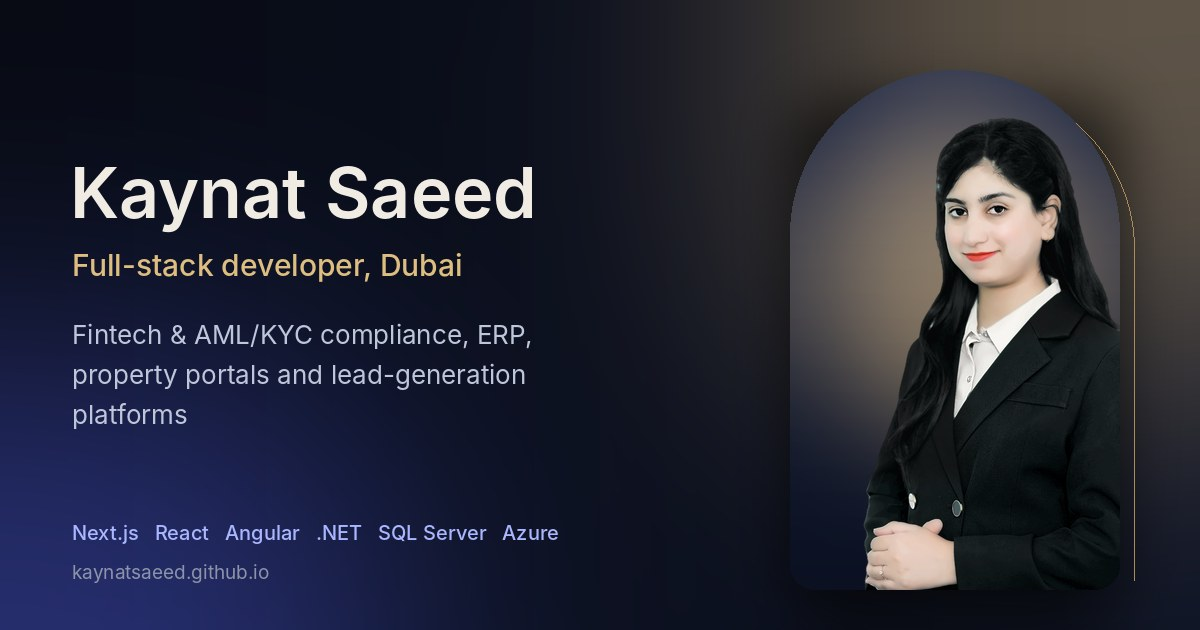
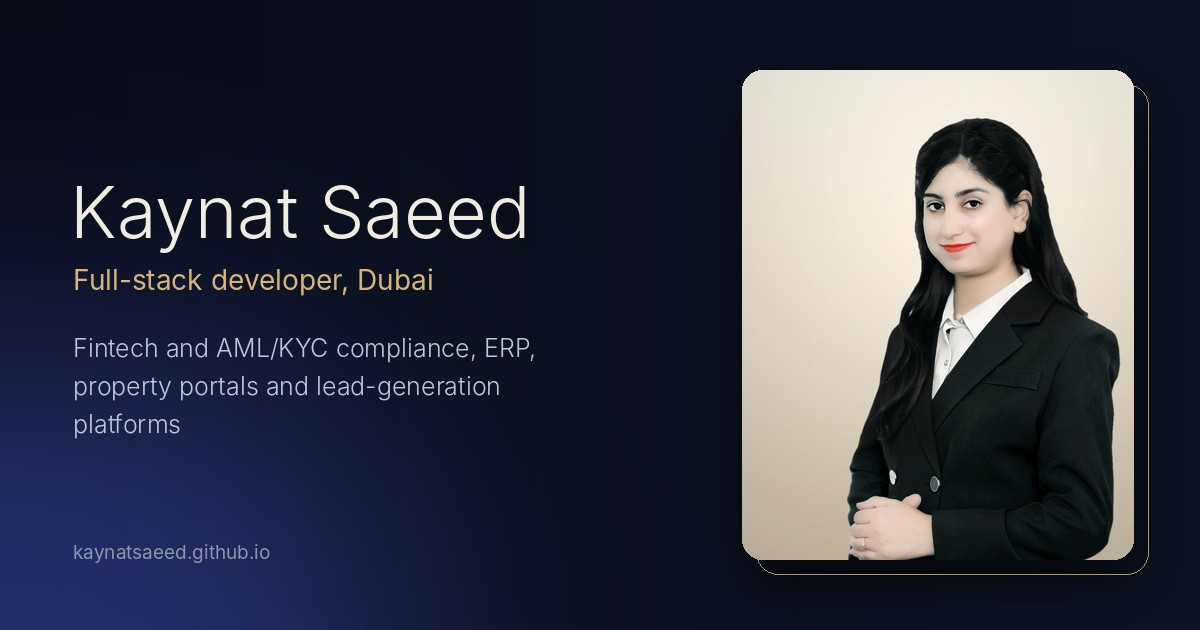
Minimal typography, glass buttons, studio portrait card

diff --git a/index.html b/index.html
@@ -25,9 +25,8 @@
     setTimeout(function () { if (!window.__ks) { d.classList.remove('js'); d.classList.add('no-js'); } }, 3500);
   })();
 </script>
-<link rel="preconnect" href="https://fonts.googleapis.com">
-<link rel="preconnect" href="https://fonts.gstatic.com" crossorigin>
-<link href="https://fonts.googleapis.com/css2?family=Geist:wght@300..700&family=Instrument+Serif:ital@0;1&display=swap" rel="stylesheet">
+<link rel="preconnect" href="https://api.fontshare.com" crossorigin>
+<link href="https://api.fontshare.com/v2/css?f[]=switzer@300,400,500,600&display=swap" rel="stylesheet">
 <script type="application/ld+json">
 {
   "@context": "https://schema.org",
@@ -55,8 +54,8 @@
   --gold: #D4B47A;
   --gold-hi: #F1DDB0;
   --gold-grad: linear-gradient(135deg, #F3E1B6 0%, #D4B47A 45%, #A8864F 100%);
-  --serif: "Instrument Serif", "Iowan Old Style", "Times New Roman", serif;
-  --sans: "Geist", "Segoe UI", system-ui, -apple-system, sans-serif;
+  --serif: "Switzer", "Helvetica Neue", Helvetica, Arial, sans-serif;
+  --sans: "Switzer", "Helvetica Neue", Helvetica, Arial, sans-serif;
   --ease: cubic-bezier(0.16, 1, 0.3, 1);
   --ease-in-out: cubic-bezier(0.77, 0, 0.18, 1);
   --wrap: 1240px;
@@ -74,7 +73,7 @@ body {
   color: var(--ink);
   font-family: var(--sans);
   font-size: 1.0625rem;
-  font-weight: 350;
+  font-weight: 400;
   line-height: 1.65;
   -webkit-font-smoothing: antialiased;
   -moz-osx-font-smoothing: grayscale;
@@ -83,6 +82,7 @@ body {
 img { display: block; max-width: 100%; height: auto; }
 a { color: inherit; }
 h1, h2, h3, p, ul, ol, dl, dd, figure { margin: 0; padding: 0; }
+h1, h2, h3 { letter-spacing: -0.03em; }
 ul, ol { list-style: none; }
 button { font: inherit; color: inherit; }
 ::selection { background: var(--gold); color: var(--bg); }
@@ -104,7 +104,7 @@ button { font: inherit; color: inherit; }
 .js.intro-seen .loader { display: none; }
 .loader.is-done { transform: translateY(-100%); }
 .loader-inner { text-align: center; }
-.loader-name { display: block; overflow: hidden; font-family: var(--serif); font-size: clamp(2.5rem, 7vw, 5rem); line-height: 1.12; }
+.loader-name { display: block; overflow: hidden; font-family: var(--serif); font-weight: 300; font-size: clamp(2.25rem, 6vw, 4.25rem); line-height: 1.15; letter-spacing: -0.04em; }
 .loader-name span { display: inline-block; transform: translateY(110%); animation: rise 1s var(--ease) .1s forwards; }
 .loader-line { display: block; height: 1px; width: min(260px, 60vw); margin: 18px auto 14px; background: var(--gold-grad); transform: scaleX(0); animation: grow 1.1s var(--ease) .35s forwards; }
 .loader-role { display: block; color: var(--muted); font-size: .9375rem; letter-spacing: .02em; opacity: 0; animation: fade .8s ease .6s forwards; }
@@ -150,7 +150,7 @@ button { font: inherit; color: inherit; }
 }
 .nav.is-hidden { transform: translate(-50%, -150%); }
 .nav.is-solid { background: rgba(10, 15, 27, .82); border-color: var(--line-2); }
-.nav-logo { font-family: var(--serif); font-size: 1.625rem; line-height: 1; text-decoration: none; letter-spacing: .01em; }
+.nav-logo { font-weight: 500; font-size: 1rem; line-height: 1; text-decoration: none; letter-spacing: -0.01em; }
 .nav-logo span { color: var(--gold); }
 .nav-links { display: flex; gap: 2px; }
 .nav-links a { display: block; padding: 10px 16px; border-radius: 999px; color: var(--muted); text-decoration: none; font-size: .9375rem; transition: color .3s ease, background-color .3s ease; }
@@ -168,15 +168,25 @@ button { font: inherit; color: inherit; }
 }
 .btn svg { width: 17px; height: 17px; flex: none; transition: transform .5s var(--ease); }
 .btn:hover svg { transform: translateX(3px); }
-.btn-gold { background: var(--gold-grad); color: #0A0D15; }
-.btn-gold::after {
-  content: ""; position: absolute; inset: 0; z-index: -1;
-  background: linear-gradient(110deg, transparent 30%, rgba(255, 255, 255, .55) 50%, transparent 70%);
-  transform: translateX(-120%); transition: transform .9s var(--ease);
+.btn-gold, .btn-ghost {
+  color: var(--ink);
+  -webkit-backdrop-filter: blur(18px) saturate(160%);
+  backdrop-filter: blur(18px) saturate(160%);
+  box-shadow: inset 0 1px 0 rgba(255, 255, 255, .22), inset 0 -1px 0 rgba(255, 255, 255, .04), 0 12px 32px -14px rgba(0, 0, 0, .7);
 }
-.btn-gold:hover::after { transform: translateX(120%); }
-.btn-ghost { border-color: var(--line-2); color: var(--ink); background: rgba(237, 234, 227, .02); }
-.btn-ghost:hover { border-color: rgba(212, 180, 122, .6); background: rgba(212, 180, 122, .07); }
+/* primary: glass with a faint champagne tint */
+.btn-gold { background: linear-gradient(135deg, rgba(241, 221, 176, .2), rgba(212, 180, 122, .06) 60%, rgba(255, 255, 255, .04)); border-color: rgba(241, 221, 176, .34); color: #F6EEDC; }
+.btn-gold:hover { background: linear-gradient(135deg, rgba(241, 221, 176, .28), rgba(212, 180, 122, .1) 60%, rgba(255, 255, 255, .06)); border-color: rgba(241, 221, 176, .55); }
+/* secondary: clear glass */
+.btn-ghost { background: linear-gradient(135deg, rgba(255, 255, 255, .1), rgba(255, 255, 255, .025)); border-color: rgba(255, 255, 255, .14); }
+.btn-ghost:hover { background: linear-gradient(135deg, rgba(255, 255, 255, .14), rgba(255, 255, 255, .04)); border-color: rgba(255, 255, 255, .28); }
+/* light sheen that passes across on hover */
+.btn-gold::after, .btn-ghost::after {
+  content: ""; position: absolute; inset: 0; z-index: -1; pointer-events: none;
+  background: linear-gradient(110deg, transparent 35%, rgba(255, 255, 255, .16) 50%, transparent 65%);
+  transform: translateX(-120%); transition: transform 1s var(--ease);
+}
+.btn-gold:hover::after, .btn-ghost:hover::after { transform: translateX(120%); }
 .btn-sm { min-height: 42px; padding: 10px 20px; font-size: .9063rem; }
 
 /* ---------- Hero ---------- */
@@ -191,20 +201,20 @@ button { font: inherit; color: inherit; }
 .hero::after { content: ""; position: absolute; left: 0; right: 0; bottom: 0; height: 26%; background: linear-gradient(to bottom, transparent, var(--bg)); pointer-events: none; }
 .hero-inner { position: relative; z-index: 1; display: flex; flex-direction: column; justify-content: center; gap: clamp(18px, 3vh, 36px); padding-top: clamp(104px, 14vh, 140px); padding-bottom: clamp(36px, 6vh, 64px); }
 .hero-top { display: flex; flex-wrap: wrap; align-items: center; justify-content: space-between; gap: 12px 24px; color: var(--muted); font-size: .9375rem; }
-.status { display: inline-flex; align-items: center; gap: 12px; padding: 8px 16px 8px 12px; border-radius: 999px; }
+.status { color: var(--muted); }
 .pulse { position: relative; width: 8px; height: 8px; border-radius: 50%; background: #5EE29A; flex: none; }
 .pulse::after { content: ""; position: absolute; inset: -4px; border-radius: 50%; border: 1px solid #5EE29A; animation: ping 2.2s var(--ease) infinite; }
 @keyframes ping { from { transform: scale(.6); opacity: .9; } to { transform: scale(2.2); opacity: 0; } }
 .hero-name {
-  font-family: var(--serif); font-weight: 400; color: var(--ink);
-  font-size: clamp(4rem, min(12vw, 21vh), 12rem);
-  line-height: .92; letter-spacing: -0.025em; margin-left: -0.04em;
+  font-family: var(--serif); font-weight: 300; color: var(--ink);
+  font-size: clamp(3.25rem, min(9.6vw, 17.5vh), 9.5rem);
+  line-height: .95; letter-spacing: -0.05em; margin-left: -0.05em;
 }
 .hero-name .word { display: inline-block; white-space: nowrap; }
-.hero-name .ch { display: inline-block; padding-bottom: .2em; margin-bottom: -.2em; background: linear-gradient(180deg, #F7F3EA 30%, #C9BB9B 82%); -webkit-background-clip: text; background-clip: text; color: transparent; }
+.hero-name .ch { display: inline-block; }
 .hero-grid { display: grid; grid-template-columns: minmax(0, 1fr) minmax(0, 1.08fr); gap: clamp(28px, 5vw, 80px); align-items: end; }
-.hero-statement { font-family: var(--serif); font-size: clamp(1.75rem, 2.7vw, 2.5rem); line-height: 1.15; margin-bottom: 16px; }
-.rotator { position: relative; display: grid; color: var(--gold-hi); font-style: italic; overflow: hidden; padding-bottom: .12em; }
+.hero-statement { font-family: var(--serif); font-weight: 300; font-size: clamp(1.4rem, 2.1vw, 1.95rem); line-height: 1.25; letter-spacing: -0.02em; margin-bottom: 16px; }
+.rotator { position: relative; display: grid; color: var(--gold); overflow: hidden; padding-bottom: .12em; }
 .rotator span { grid-area: 1 / 1; transform: translateY(105%); opacity: 0; transition: transform .9s var(--ease), opacity .6s ease; }
 .rotator span.is-active { transform: none; opacity: 1; }
 .rotator span.is-leaving { transform: translateY(-105%); opacity: 0; }
@@ -247,15 +257,14 @@ button { font: inherit; color: inherit; }
 .marquee { position: relative; padding-block: clamp(28px, 4vw, 44px); border-block: 1px solid var(--line); overflow: hidden; -webkit-mask-image: linear-gradient(90deg, transparent, #000 10%, #000 90%, transparent); mask-image: linear-gradient(90deg, transparent, #000 10%, #000 90%, transparent); }
 .marquee-track { display: flex; width: max-content; will-change: transform; }
 .marquee-group { display: flex; align-items: center; flex: none; }
-.marquee-group span { font-family: var(--serif); font-size: clamp(2.25rem, 5vw, 4.25rem); line-height: 1.1; padding-inline: clamp(18px, 2.4vw, 34px); white-space: nowrap; }
-.marquee-group span:nth-child(4n+3) { color: transparent; -webkit-text-stroke: 1px rgba(237, 234, 227, .5); }
-.marquee-group b { width: 9px; height: 9px; flex: none; background: var(--gold); transform: rotate(45deg); }
+.marquee-group span { font-family: var(--serif); font-weight: 300; font-size: clamp(1.75rem, 3.6vw, 3rem); line-height: 1.15; letter-spacing: -0.03em; padding-inline: clamp(18px, 2.4vw, 34px); white-space: nowrap; color: var(--muted); }
+.marquee-group b { width: 5px; height: 5px; flex: none; border-radius: 50%; background: var(--gold); }
 
 /* ---------- Sections ---------- */
 .section { position: relative; padding-block: var(--section); }
 .section.flush { padding-top: 0; }
 .head { display: grid; grid-template-columns: minmax(0, 1.15fr) minmax(0, 1fr); gap: 24px 64px; align-items: end; margin-bottom: clamp(48px, 7vw, 96px); }
-.h2 { font-family: var(--serif); font-weight: 400; font-size: clamp(3rem, 7.4vw, 6.75rem); line-height: .95; letter-spacing: -0.02em; }
+.h2 { font-family: var(--serif); font-weight: 300; font-size: clamp(2.6rem, 5.6vw, 5rem); line-height: 1; letter-spacing: -0.045em; }
 .head p { color: var(--muted); max-width: 52ch; }
 
 /* reveal system */
@@ -268,15 +277,15 @@ button { font: inherit; color: inherit; }
 }
 
 /* ---------- Intro ---------- */
-.statement { font-family: var(--serif); font-size: clamp(2rem, 4.4vw, 3.9rem); line-height: 1.14; letter-spacing: -0.01em; max-width: 23ch; }
-.statement em { color: var(--gold-hi); }
+.statement { font-family: var(--serif); font-weight: 300; font-size: clamp(1.75rem, 3.3vw, 3rem); line-height: 1.22; letter-spacing: -0.03em; max-width: 26ch; }
+.statement em { font-style: normal; color: var(--gold); }
 .js .statement .sw { opacity: .16; transition: opacity .5s ease; }
 .js .statement .sw.on { opacity: 1; }
 .stats { display: grid; grid-template-columns: repeat(3, minmax(0, 1fr)); margin-top: clamp(56px, 8vw, 104px); border-top: 1px solid var(--line); }
 .stats div { display: flex; flex-direction: column; padding: 28px 28px 0 0; }
 .stats div + div { padding-left: 28px; border-left: 1px solid var(--line); }
-.stats dd { order: -1; font-family: var(--serif); font-size: clamp(3.5rem, 7vw, 6rem); line-height: 1; }
-.stats dd sup { font-size: .38em; color: var(--gold); margin-left: 6px; vertical-align: 1em; }
+.stats dd { order: -1; font-family: var(--serif); font-weight: 300; font-size: clamp(2.75rem, 5vw, 4.25rem); line-height: 1; letter-spacing: -0.04em; }
+.stats dd sup { font-size: .32em; color: var(--muted); margin-left: 6px; vertical-align: 1.2em; letter-spacing: 0; }
 .stats dt { color: var(--muted); font-size: .9688rem; margin-top: 10px; max-width: 26ch; }
 
 /* ---------- Expertise ---------- */
@@ -288,7 +297,7 @@ button { font: inherit; color: inherit; }
 }
 .spot-icon { width: 52px; height: 52px; border-radius: 14px; display: grid; place-items: center; margin-bottom: clamp(36px, 5vw, 64px); border: 1px solid rgba(212, 180, 122, .28); background: rgba(212, 180, 122, .06); color: var(--gold); }
 .spot-icon svg { width: 24px; height: 24px; }
-.spot h3 { font-family: var(--serif); font-weight: 400; font-size: clamp(1.875rem, 2.8vw, 2.5rem); line-height: 1.05; margin-bottom: 14px; }
+.spot h3 { font-family: var(--serif); font-weight: 300; font-size: clamp(1.875rem, 2.8vw, 2.5rem); line-height: 1.1; letter-spacing: -0.03em; margin-bottom: 14px; }
 .spot p { color: var(--muted); max-width: 44ch; }
 .spot .where { margin-top: 22px; padding-top: 18px; border-top: 1px solid var(--line); color: var(--gold); font-size: .875rem; font-weight: 500; }
 
@@ -309,14 +318,14 @@ button { font: inherit; color: inherit; }
 }
 .card-client { display: flex; align-items: center; gap: 10px; color: var(--gold); font-size: .875rem; font-weight: 500; margin-bottom: 14px; }
 .card-client::before { content: ""; width: 22px; height: 1px; background: var(--gold); flex: none; }
-.card h3 { font-family: var(--serif); font-weight: 400; font-size: clamp(2rem, 3.1vw, 2.875rem); line-height: 1.02; letter-spacing: -0.01em; margin-bottom: 14px; }
+.card h3 { font-family: var(--serif); font-weight: 300; font-size: clamp(1.75rem, 2.5vw, 2.4rem); line-height: 1.08; letter-spacing: -0.035em; margin-bottom: 14px; }
 .card-sum { color: var(--muted); margin-bottom: 18px; font-size: 1rem; }
 .ticks { display: grid; gap: 9px; margin-bottom: 20px; }
 .ticks li { position: relative; padding-left: 26px; font-size: .9688rem; line-height: 1.5; color: var(--soft); }
-.ticks li::before { content: ""; position: absolute; left: 0; top: .3em; width: 14px; height: 14px; border-radius: 50%; border: 1px solid rgba(212, 180, 122, .5); background: radial-gradient(circle, var(--gold) 0 2.5px, transparent 3px); }
+.ticks li::before { content: ""; position: absolute; left: 0; top: .78em; width: 12px; height: 1px; background: var(--gold); }
 .chips { display: flex; flex-wrap: wrap; gap: 7px; margin-bottom: 24px; }
 .chips li { padding: 5px 12px; border-radius: 999px; border: 1px solid var(--line-2); color: var(--muted); font-size: .8125rem; line-height: 1.4; }
-.card-note { color: var(--dim); font-size: .9063rem; font-style: italic; }
+.card-note { color: var(--dim); font-size: .9063rem; }
 .card-media { position: relative; min-width: 0; }
 .card-main { position: relative; display: block; width: 100%; padding: 0; border: 0; background: none; border-radius: 12px; text-align: left; cursor: zoom-in; }
 .card-main .phone { position: absolute; right: -14px; bottom: -22px; width: 20%; }
@@ -333,7 +342,7 @@ button { font: inherit; color: inherit; }
 
 /* ---------- Behind the login ---------- */
 .private { display: grid; grid-template-columns: minmax(0, 1fr) minmax(0, 1.35fr); gap: clamp(32px, 6vw, 96px); align-items: start; margin-top: clamp(80px, 10vw, 140px); }
-.private h3 { font-family: var(--serif); font-weight: 400; font-size: clamp(2.25rem, 4.2vw, 3.75rem); line-height: 1; margin-bottom: 18px; }
+.private h3 { font-family: var(--serif); font-weight: 300; font-size: clamp(2.25rem, 4.2vw, 3.75rem); line-height: 1; margin-bottom: 18px; }
 .private > div > p { color: var(--muted); max-width: 40ch; }
 .rows { padding: 6px clamp(20px, 2.6vw, 32px); border-radius: 24px; }
 .rows li:last-child { border-bottom: 0; }
@@ -347,7 +356,7 @@ button { font: inherit; color: inherit; }
 .designs { display: grid; grid-template-columns: repeat(3, minmax(0, 1fr)); gap: clamp(18px, 2.4vw, 28px); }
 .design-img { display: block; width: 100%; padding: 0; border: 0; background: none; border-radius: 22px; overflow: hidden; cursor: zoom-in; }
 .design-img img { width: 100%; aspect-ratio: 4 / 3.3; object-fit: cover; }
-.design h3 { font-family: var(--serif); font-weight: 400; font-size: 1.875rem; line-height: 1.1; margin: 22px 0 8px; }
+.design h3 { font-family: var(--serif); font-weight: 300; font-size: 1.875rem; line-height: 1.1; margin: 22px 0 8px; }
 .design p { color: var(--muted); font-size: 1rem; }
 .more { margin-top: clamp(40px, 5vw, 64px); display: flex; justify-content: center; }
 
@@ -362,7 +371,7 @@ button { font: inherit; color: inherit; }
 .role::after { content: ""; position: absolute; left: 5px; top: 13px; width: 5px; height: 5px; border-radius: 50%; background: var(--gold); }
 .role-when { color: var(--gold); font-size: .9375rem; font-weight: 500; padding-top: 2px; font-variant-numeric: tabular-nums; }
 .role-when small { display: block; color: var(--dim); font-weight: 400; font-size: .875rem; margin-top: 4px; }
-.role h3 { font-family: var(--serif); font-weight: 400; font-size: clamp(1.875rem, 3vw, 2.5rem); line-height: 1.05; margin-bottom: 6px; }
+.role h3 { font-family: var(--serif); font-weight: 300; font-size: clamp(1.875rem, 3vw, 2.5rem); line-height: 1.05; margin-bottom: 6px; }
 .role-org { color: var(--muted); margin-bottom: 18px; }
 .role .ticks { margin-bottom: 0; max-width: 70ch; }
 
@@ -370,22 +379,22 @@ button { font: inherit; color: inherit; }
 .skill-grid { display: grid; grid-template-columns: repeat(3, minmax(0, 1fr)); gap: 18px; }
 .skill { padding: 28px; border-radius: 22px; }
 .skill:hover, .spot:hover, .cred:hover { border-color: rgba(212, 180, 122, .32); }
-.skill h3 { font-family: var(--serif); font-weight: 400; font-size: 1.75rem; line-height: 1.1; margin-bottom: 18px; }
+.skill h3 { font-family: var(--serif); font-weight: 300; font-size: 1.75rem; line-height: 1.1; margin-bottom: 18px; }
 .tags { display: flex; flex-wrap: wrap; gap: 8px; }
 .tags li { padding: 6px 13px; border-radius: 999px; border: 1px solid var(--line-2); font-size: .875rem; line-height: 1.4; color: var(--soft); transition: border-color .3s ease, color .3s ease; }
 .tags li:hover { border-color: var(--gold); color: var(--gold-hi); }
 .creds { display: grid; grid-template-columns: repeat(2, minmax(0, 1fr)); gap: 18px; margin-top: 18px; }
 .cred { display: flex; gap: 20px; align-items: center; padding: 24px 28px; border-radius: 22px; }
 .cred svg { width: 30px; height: 30px; color: var(--gold); flex: none; }
-.cred h3 { font-family: var(--serif); font-weight: 400; font-size: 1.5rem; line-height: 1.15; }
+.cred h3 { font-family: var(--serif); font-weight: 300; font-size: 1.5rem; line-height: 1.15; }
 .cred p { color: var(--muted); font-size: .9375rem; }
 
 /* ---------- Contact ---------- */
 .contact { overflow: hidden; }
 .contact .aurora i:nth-child(1) { top: auto; bottom: -30vw; right: -20vw; }
 .contact-inner { position: relative; z-index: 1; }
-.contact-title { font-family: var(--serif); font-weight: 400; font-size: clamp(3.5rem, 11vw, 10.5rem); line-height: .92; letter-spacing: -0.025em; margin-bottom: clamp(36px, 5vw, 56px); }
-.contact-grid { display: grid; grid-template-columns: minmax(0, 1fr) auto; gap: 40px 64px; align-items: center; padding-top: clamp(32px, 4vw, 48px); border-top: 1px solid var(--line); }
+.contact-title { font-family: var(--serif); font-weight: 300; font-size: clamp(2.75rem, 7.6vw, 7rem); line-height: 1; letter-spacing: -0.05em; margin-bottom: clamp(36px, 5vw, 56px); }
+.contact-grid { display: grid; grid-template-columns: minmax(0, 1fr); gap: 40px 64px; align-items: center; padding-top: clamp(32px, 4vw, 48px); border-top: 1px solid var(--line); }
 .contact-lede { color: var(--muted); max-width: 46ch; font-size: 1.125rem; margin-bottom: 26px; }
 .reach { display: grid; grid-template-columns: repeat(2, minmax(0, 1fr)); gap: 0 40px; }
 .reach li { padding: 16px 0; border-bottom: 1px solid var(--line); }
@@ -407,6 +416,7 @@ button { font: inherit; color: inherit; }
 .footer { border-top: 1px solid var(--line); color: var(--dim); font-size: .875rem; }
 .footer .wrap { display: flex; flex-wrap: wrap; align-items: center; justify-content: space-between; gap: 12px 32px; padding-block: 28px; }
 .footer a { color: var(--muted); text-decoration: none; }
+.foot-links { display: flex; gap: 24px; }
 .footer a:hover { color: var(--gold); }
 .clock { font-variant-numeric: tabular-nums; color: var(--muted); }
 
@@ -462,15 +472,15 @@ main, .footer { position: relative; z-index: 1; }
 .tile img { width: 100%; aspect-ratio: 2.08 / 1; object-fit: cover; object-position: top; filter: saturate(.9) brightness(.82); }
 .band::before { content: ""; position: absolute; inset: 0; z-index: 1; pointer-events: none; background: radial-gradient(60% 60% at 50% 50%, rgba(7, 10, 18, .6), rgba(7, 10, 18, .15) 80%); }
 .band-glass { position: relative; z-index: 2; width: min(560px, calc(100% - 2 * var(--gutter))); padding: clamp(28px, 4vw, 48px); border-radius: 28px; text-align: center; }
-.band-glass h2 { font-family: var(--serif); font-weight: 400; font-size: clamp(2.5rem, 5vw, 4rem); line-height: 1; margin-bottom: 14px; }
+.band-glass h2 { font-family: var(--serif); font-weight: 300; font-size: clamp(2.5rem, 5vw, 4rem); line-height: 1; margin-bottom: 14px; }
 .band-glass p { color: var(--soft); margin: 0 auto 26px; max-width: 40ch; }
 
 /* ---------- Parallax text band ---------- */
 .tband { position: relative; z-index: 1; padding-block: clamp(56px, 8vw, 112px); overflow: hidden; }
-.tband-row { display: flex; align-items: center; gap: clamp(24px, 3vw, 48px); width: max-content; white-space: nowrap; font-family: var(--serif); font-size: clamp(3.75rem, 10.5vw, 10rem); line-height: 1.08; will-change: transform; }
+.tband-row { display: flex; align-items: center; gap: clamp(24px, 3vw, 48px); width: max-content; white-space: nowrap; font-family: var(--serif); font-weight: 300; font-size: clamp(3rem, 8vw, 7.5rem); line-height: 1.1; letter-spacing: -0.05em; will-change: transform; }
 .tband-row + .tband-row { margin-top: clamp(4px, 1vw, 12px); }
-.tband-row.outline span { color: transparent; -webkit-text-stroke: 1px rgba(212, 180, 122, .55); }
-.tband-row b { width: clamp(10px, 1.2vw, 16px); height: clamp(10px, 1.2vw, 16px); flex: none; background: var(--gold); transform: rotate(45deg); }
+.tband-row.outline span { color: var(--dim); }
+.tband-row b { width: clamp(8px, .8vw, 12px); height: clamp(8px, .8vw, 12px); flex: none; border-radius: 50%; background: var(--gold); }
 
 /* image parallax */
 [data-parallax] { scale: 1.12; transition: scale 1.2s var(--ease); }
@@ -480,22 +490,20 @@ main, .footer { position: relative; z-index: 1; }
 /* ---------- Portrait ---------- */
 .intro-grid { display: grid; grid-template-columns: minmax(0, 1.45fr) minmax(0, .9fr); gap: clamp(40px, 6vw, 96px); align-items: center; }
 .portrait { position: relative; width: 100%; max-width: 440px; justify-self: end; }
-.portrait::before { content: ""; position: absolute; inset: 0; translate: 18px 18px; border: 1px solid rgba(212, 180, 122, .45); border-radius: 999px 999px 32px 32px; pointer-events: none; }
+.portrait::before { content: ""; position: absolute; inset: 0; translate: 16px 16px; border: 1px solid rgba(212, 180, 122, .45); border-radius: 24px; pointer-events: none; }
 .portrait-arch {
   position: relative; aspect-ratio: 4 / 5; overflow: hidden; isolation: isolate;
-  border-radius: 999px 999px 32px 32px; border: 1px solid rgba(255, 255, 255, .1);
-  background: radial-gradient(70% 52% at 50% 36%, rgba(212, 180, 122, .42), transparent 70%), radial-gradient(60% 40% at 80% 90%, rgba(79, 91, 213, .35), transparent 70%), linear-gradient(180deg, #1B2645 0%, #0B1121 100%);
-  box-shadow: 0 50px 100px -40px rgba(0, 0, 0, .9), inset 0 1px 0 rgba(255, 255, 255, .08);
+  border-radius: 22px; background: #E7DDCB;
+  box-shadow: 0 50px 100px -40px rgba(0, 0, 0, .9);
 }
-.portrait-arch::after { content: ""; position: absolute; left: 0; right: 0; bottom: 0; height: 28%; background: linear-gradient(transparent, rgba(8, 12, 22, .9)); pointer-events: none; }
-.portrait-img { position: absolute; left: -9%; bottom: -5%; width: 112%; max-width: none; height: auto; will-change: translate; }
-.portrait-tag { position: absolute; left: -28px; top: 40%; z-index: 2; display: inline-flex; align-items: center; gap: 12px; padding: 12px 18px; border-radius: 18px; font-family: var(--serif); font-size: 1.25rem; line-height: 1.15; }
+.portrait-img { position: absolute; inset: 0; width: 100%; height: 100%; object-fit: cover; scale: 1.08; will-change: translate; }
+.portrait-tag { position: absolute; left: -28px; bottom: 36px; z-index: 2; display: inline-flex; align-items: center; gap: 12px; padding: 12px 18px; border-radius: 14px; font-weight: 500; font-size: 1rem; line-height: 1.2; }
 .portrait-tag small { display: block; font-family: var(--sans); font-size: .78rem; color: var(--muted); margin-top: 2px; }
 @media (prefers-reduced-motion: no-preference) {
-  .js .portrait .portrait-arch { clip-path: inset(100% 0 0 0 round 220px 220px 32px 32px); transition: clip-path 1.7s var(--ease-in-out) .1s; }
-  .js .portrait.is-in .portrait-arch { clip-path: inset(0 0 0 0 round 0); }
-  .js .portrait .portrait-img { scale: 1.12; transition: scale 2.2s var(--ease) .2s; }
-  .js .portrait.is-in .portrait-img { scale: 1; }
+  .js .portrait .portrait-arch { clip-path: inset(100% 0 0 0 round 22px); transition: clip-path 1.6s var(--ease-in-out) .1s; }
+  .js .portrait.is-in .portrait-arch { clip-path: inset(0 0 0 0 round 22px); }
+  .js .portrait .portrait-img { scale: 1.2; transition: scale 2.2s var(--ease) .2s; }
+  .js .portrait.is-in .portrait-img { scale: 1.08; }
 }
 
 /* ---------- Responsive ---------- */
@@ -541,7 +549,7 @@ main, .footer { position: relative; z-index: 1; }
   .hero-actions .btn { flex: 1 1 auto; }
   .chip-a { left: 2%; top: 4%; }
   .portrait { max-width: 300px; margin-left: 10px; }
-  .portrait-tag { left: -10px; top: 38%; font-size: 1.1rem; }
+  .portrait-tag { left: -10px; bottom: 20px; font-size: .95rem; }
   .chip-b { right: 4%; bottom: -8%; }
   .band { height: 540px; }
 }
@@ -567,7 +575,7 @@ main, .footer { position: relative; z-index: 1; }
 <a class="skip" href="#main">Skip to content</a>
 
 <header class="nav" id="nav">
-  <a class="nav-logo" href="#top" aria-label="Kaynat Saeed, back to top">K<span>.</span>S</a>
+  <a class="nav-logo" href="#top">Kaynat Saeed</a>
   <nav aria-label="Main">
     <ul class="nav-links">
       <li><a href="#work">Work</a></li>
@@ -599,8 +607,8 @@ main, .footer { position: relative; z-index: 1; }
     <div class="aurora" aria-hidden="true"><i></i><i></i><i></i></div>
     <div class="wrap hero-inner">
       <div class="hero-top hero-fade" style="--d:.05s">
-        <p class="status glass"><span class="pulse" aria-hidden="true"></span>Open to full-stack roles in the UAE</p>
-        <p class="loc">Dubai, UAE <span class="clock" data-clock></span></p>
+        <p class="status">Open to full-stack roles in the UAE</p>
+        <p class="loc">Dubai, UAE</p>
       </div>
 
       <h1 class="hero-name" id="hero-name" data-chars>Kaynat Saeed</h1>
@@ -642,7 +650,7 @@ main, .footer { position: relative; z-index: 1; }
               <img src="m-promotions-420.webp" width="420" height="910" alt="">
             </span>
             <span class="glass-chip glass chip-a"><span class="chip-ic"><svg viewBox="0 0 24 24" fill="none" stroke="currentColor" stroke-width="1.6" stroke-linecap="round" stroke-linejoin="round"><path d="m8 9-4 3 4 3M16 9l4 3-4 3M13.5 6l-3 12"/></svg></span><span>Next.js + .NET<small>Full-stack, end to end</small></span></span>
-            <span class="glass-chip glass chip-b"><span class="pulse"></span><span>6 apps live on Azure<small>Docker and CI/CD</small></span></span>
+            <span class="glass-chip glass chip-b"><span>6 apps live on Azure<small>Docker and CI/CD</small></span></span>
           </div>
         </div>
       </div>
@@ -667,9 +675,9 @@ main, .footer { position: relative; z-index: 1; }
         <p class="statement" data-scrub>For nearly five years I've built software that moves money, keeps compliance teams in control and sells property: AML monitoring, enterprise ERP, and launch platforms for projects by <em>Emaar, Modon and Azizi.</em></p>
         <figure class="portrait" data-reveal>
           <div class="portrait-arch">
-            <img class="portrait-img" data-depth="-34" src="kaynat-portrait-1000.webp?v=5" srcset="kaynat-portrait-560.webp?v=5 560w, kaynat-portrait-1000.webp?v=5 1000w" sizes="(max-width: 1023px) 80vw, 490px" width="1000" height="1251" loading="lazy" alt="Kaynat Saeed, full-stack developer in Dubai">
+            <img class="portrait-img" data-depth="-22" src="kaynat-portrait-card-1000.webp" srcset="kaynat-portrait-card-560.webp 560w, kaynat-portrait-card-1000.webp 1000w" sizes="(max-width: 1023px) 80vw, 440px" width="1000" height="1250" loading="lazy" alt="Kaynat Saeed, full-stack developer in Dubai">
           </div>
-          <figcaption class="portrait-tag glass"><span class="pulse" aria-hidden="true"></span><span>Kaynat Saeed<small>Full-stack developer, Dubai</small></span></figcaption>
+          <figcaption class="portrait-tag glass"><span>Kaynat Saeed<small>Full-stack developer, Dubai</small></span></figcaption>
         </figure>
       </div>
       <dl class="stats">
@@ -1054,7 +1062,6 @@ main, .footer { position: relative; z-index: 1; }
             <li>English, Urdu, Hindi</li>
           </ul>
         </div>
-        <a class="orb magnetic" href="mailto:kaynatvu@gmail.com" data-reveal style="--d:.15s">Email<br>me</a>
       </div>
     </div>
   </section>
@@ -1062,8 +1069,8 @@ main, .footer { position: relative; z-index: 1; }
 
 <footer class="footer">
   <div class="wrap">
-    <p>© 2026 Kaynat Saeed. Client websites shown were developed for New Heights Real Estate, Dubai.</p>
-    <p>Dubai <span class="clock" data-clock></span> &nbsp;/&nbsp; <a href="#top">Back to top</a></p>
+    <p>© 2026 Kaynat Saeed</p>
+    <p class="foot-links"><a href="https://www.linkedin.com/in/kaynat-saeed" target="_blank" rel="noopener">LinkedIn</a><a href="https://dribbble.com/kaynat-saeed" target="_blank" rel="noopener">Dribbble</a><a href="mailto:kaynatvu@gmail.com">Email</a></p>
   </div>
 </footer>
 
